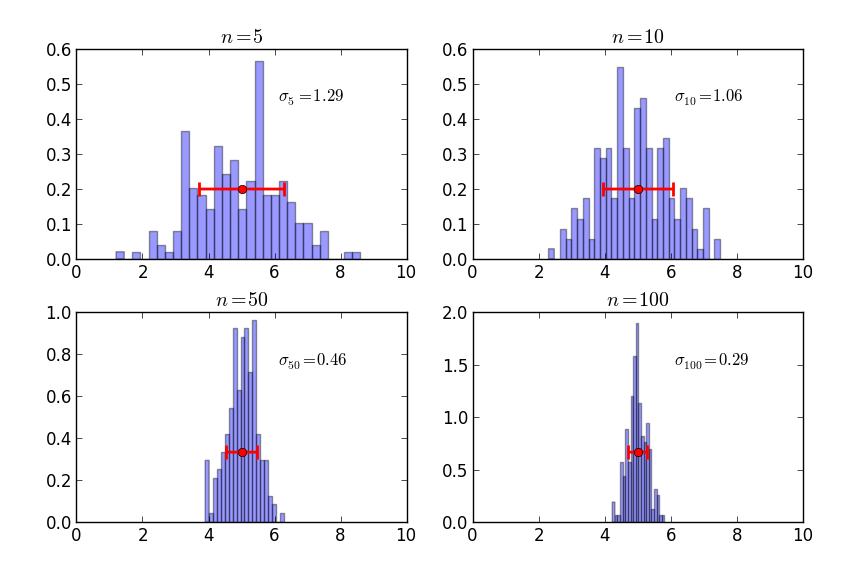
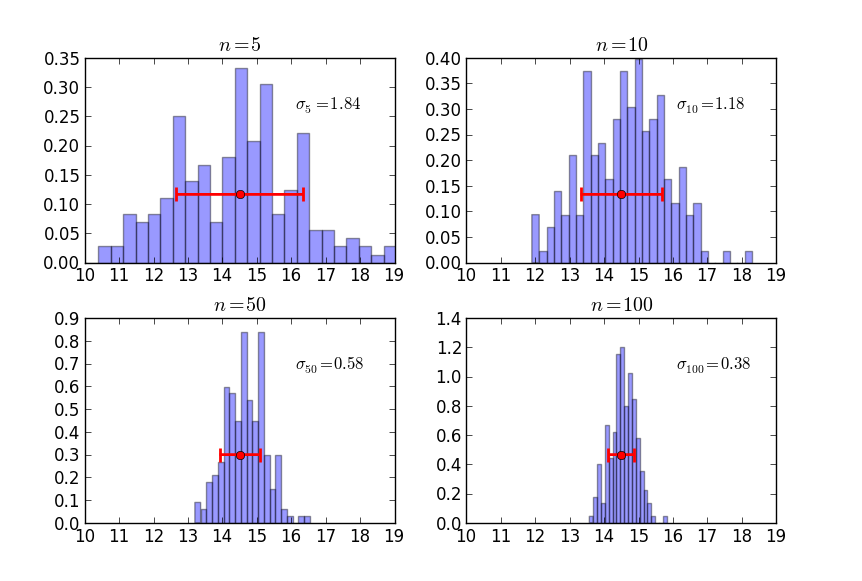
Made all CLT stuff use blackjack distribution to make things simpler

Changed region(s): [[0.0304, 0.0624, 0.9416, 0.9359]]

diff --git a/lab_analog/code/central_limit.py b/lab_analog/code/central_limit.py
@@ -37,13 +37,14 @@ def n_scaling(distribution=uniform, *xlimits):
     figure()
     subplot(224)
     means = collect_samples(distribution, n=100, N=200)
+    print mean(means)
     hist(means, normed=True, bins=20, alpha=0.4)
     title(r"$n=100$")
     xlim(*xlimits)
     # std bar
     errorbar([mean(xlim())], [mean(ylim())/1.5], xerr=std(means), fmt="ro", capsize=5,
         capthick=2, elinewidth=2)
-    text(6.1, ylim()[1]*.75, r"$\sigma_{100}=%.2f$" % std(means))
+    text(16.1, ylim()[1]*.75, r"$\sigma_{100}=%.2f$" % std(means))
 
     subplot(223)
     means = collect_samples(distribution, n=50, N=200)
@@ -52,7 +53,7 @@ def n_scaling(distribution=uniform, *xlimits):
     xlim(*xlimits)
     errorbar([mean(xlim())], [mean(ylim())/1.5], xerr=std(means), fmt="ro", capsize=5,
         capthick=2, elinewidth=2)
-    text(6.1, ylim()[1]*.75, r"$\sigma_{50}=%.2f$" % std(means))
+    text(16.1, ylim()[1]*.75, r"$\sigma_{50}=%.2f$" % std(means))
 
     subplot(222)
     means = collect_samples(distribution, n=10, N=200)
@@ -61,7 +62,7 @@ def n_scaling(distribution=uniform, *xlimits):
     xlim(*xlimits)
     errorbar([mean(xlim())], [mean(ylim())/1.5], xerr=std(means), fmt="ro", capsize=5,
         capthick=2, elinewidth=2)
-    text(6.1, ylim()[1]*.75, r"$\sigma_{10}=%.2f$" % std(means))
+    text(16.1, ylim()[1]*.75, r"$\sigma_{10}=%.2f$" % std(means))
 
     subplot(221)
     means = collect_samples(distribution, n=5, N=200)
@@ -70,7 +71,7 @@ def n_scaling(distribution=uniform, *xlimits):
     xlim(*xlimits)
     errorbar([mean(xlim())], [mean(ylim())/1.5], xerr=std(means), fmt="ro", capsize=5,
         capthick=2, elinewidth=2)
-    text(6.1, ylim()[1]*.75, r"$\sigma_5=%.2f$" % std(means))
+    text(16.1, ylim()[1]*.75, r"$\sigma_5=%.2f$" % std(means))
 
     show()
 
